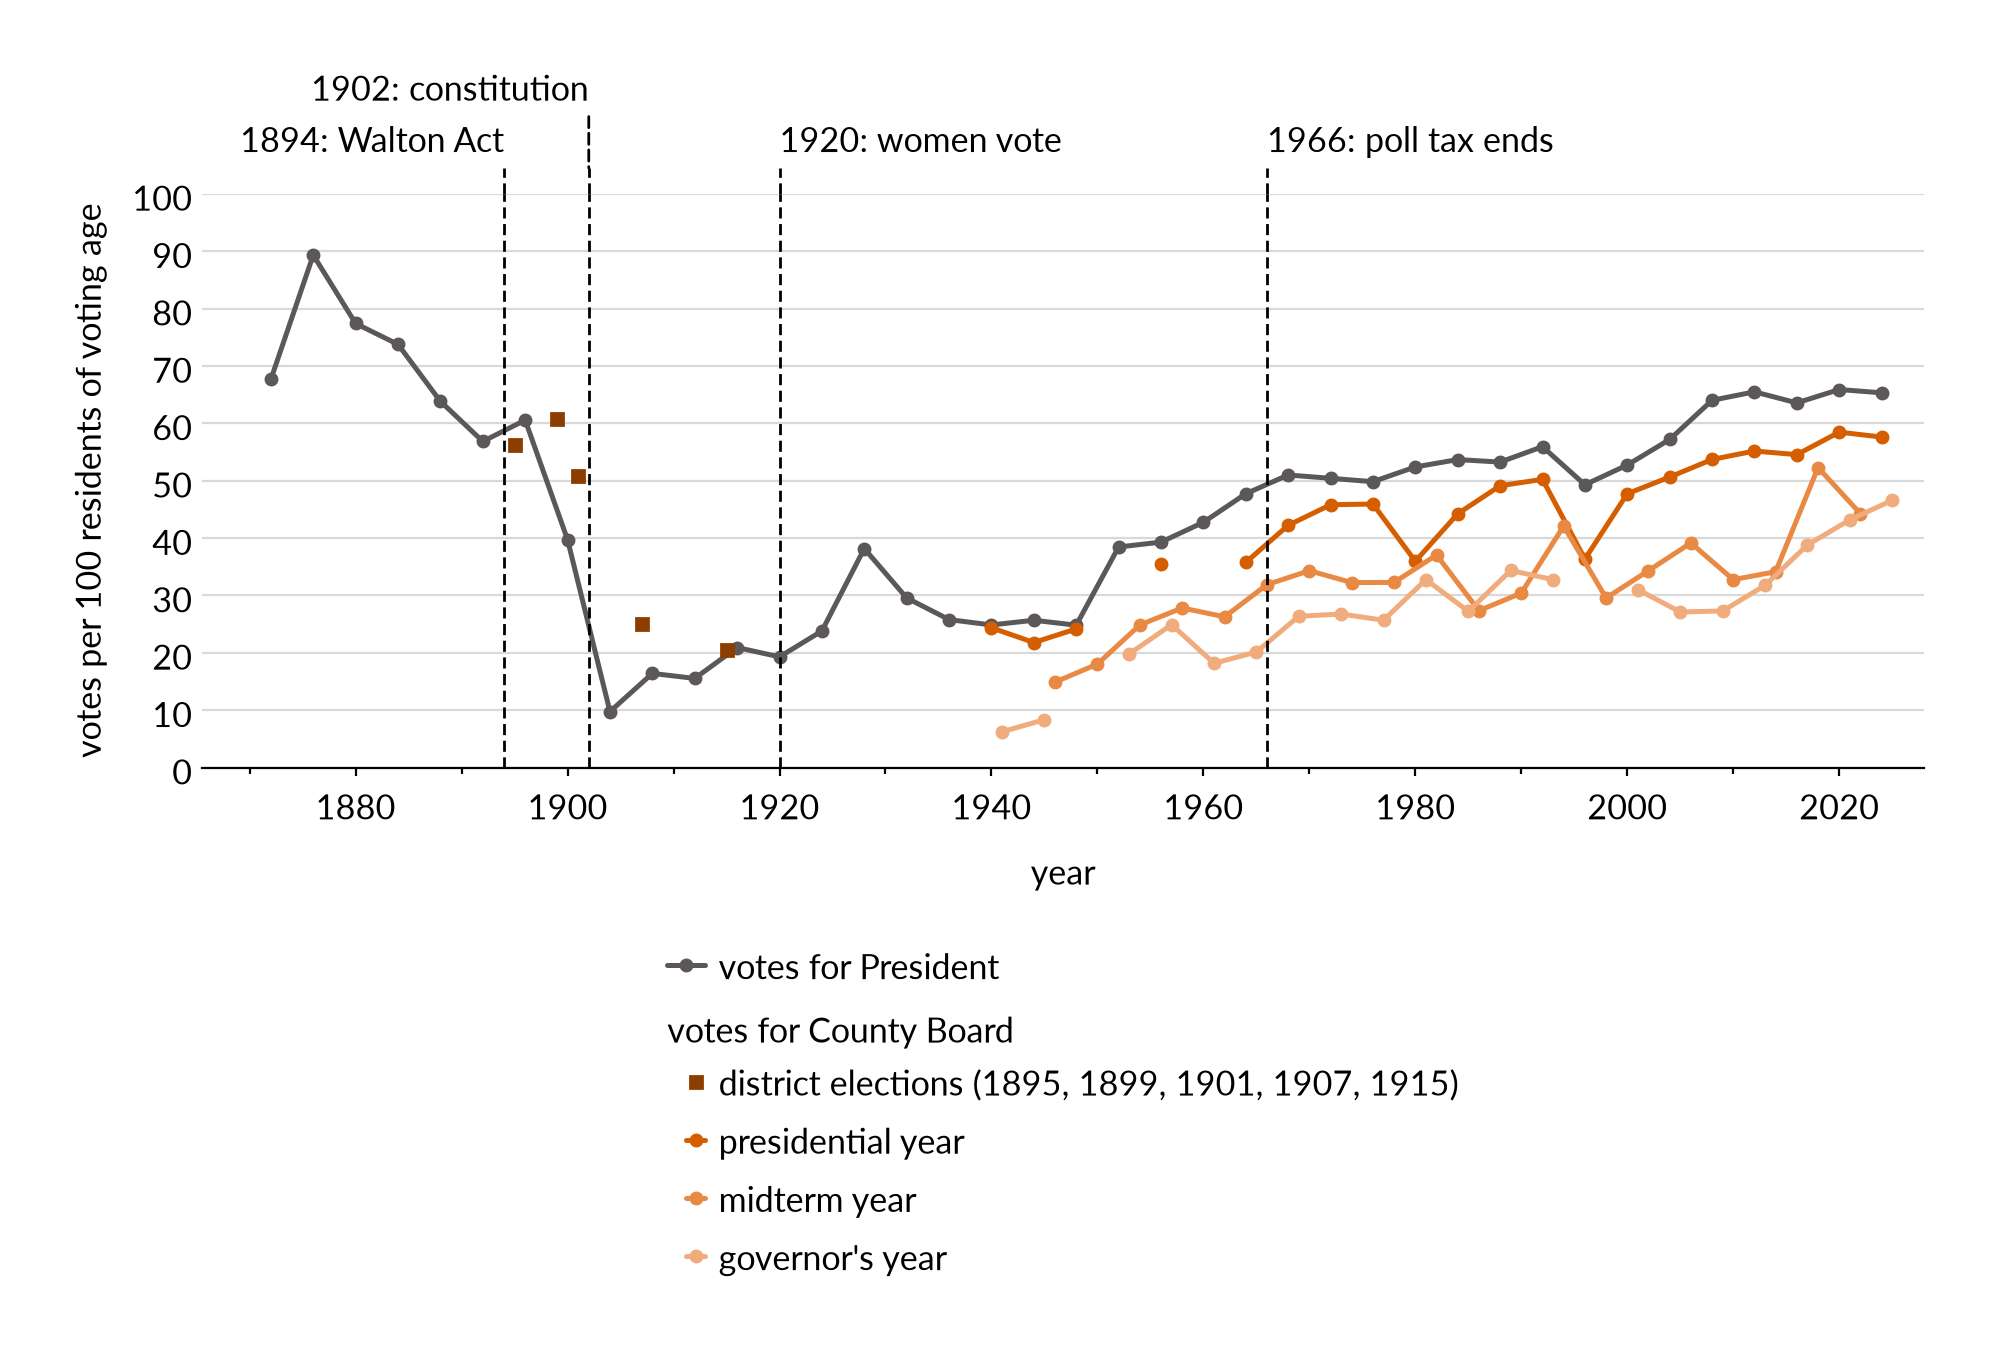
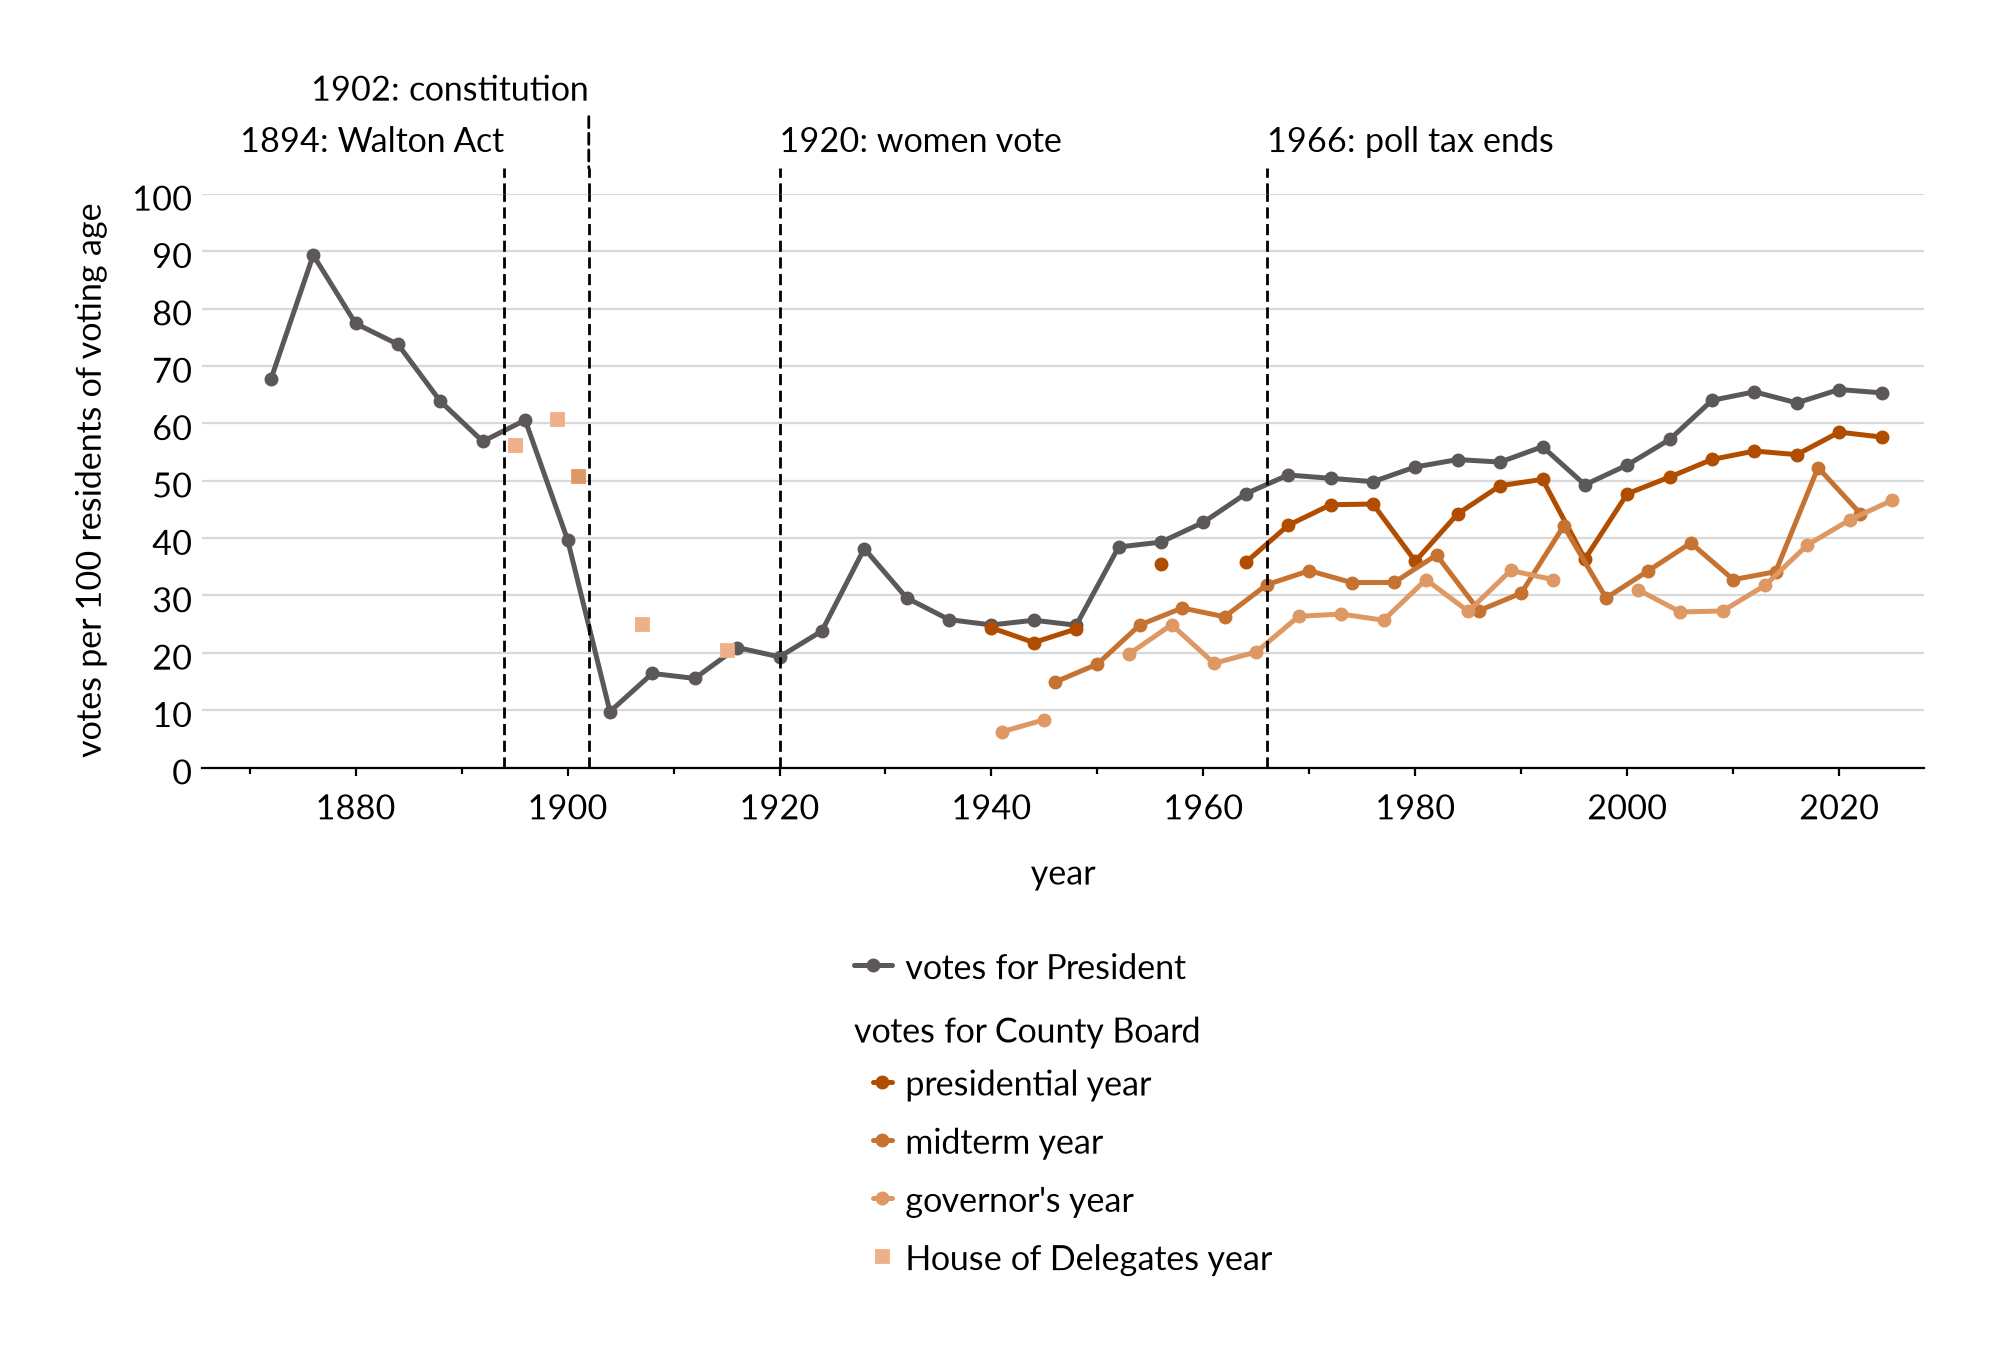
Turnout squares take their year's shade; House of Delegates years join the family; tracker row for the 1870s rate

diff --git a/code/analysis/elections_turnout.py b/code/analysis/elections_turnout.py
@@ -1,18 +1,20 @@
 """Votes cast per 100 residents of voting age, 1872 to the present -> figures/elections_turnout.pdf, .png
 
 One panel. The presidential vote is one grey line throughout. The Board's
-vote is one colour family: a square for each of the district-era elections
-in which every district's count survives, and from 1935 a line for each of
-the three things that led the ballot in a one-seat year (presidential,
-midterm, governor's year). A year that filled more than one seat, or that
-the build marks incomplete, is a gap: its votes are not its voters. The
-denominator is code/analysis/elections.py's, which body_text_numbers reads
-too, so the prose cites the rates this figure draws.
+vote is one colour family, shaded by what led the November ballot
+(presidential, midterm, governor's or House of Delegates year): a square for
+each district-era election in which every district's count survives, and from
+1935 a line for each cycle in a one-seat year. A year that filled more than
+one seat, or that the build marks incomplete, is a gap: its votes are not its
+voters, and that takes every House of Delegates year from 1943, so the
+delegates shade appears only among the squares. The denominator is
+code/analysis/elections.py's, which body_text_numbers reads too, so the prose
+cites the rates this figure draws.
 """
 import charts
 import paths
 import style
-from elections import per_100_voting_age
+from elections import cycle, per_100_voting_age
 
 FIRST_ONE_SEAT = 1935
 LAST_DISTRICT_ERA = 1928
@@ -42,22 +44,20 @@ for profile in style.PROFILES:
     fig, ax = charts.figure(profile)
     label, colour = style.PRESIDENT
     charts.lines(ax, president_rate.index.to_numpy(), {label: (president_rate.to_numpy(), colour)})
-    colour, marker = style.BOARD_FAMILY["districts"]
-    charts.marks(ax, district_rate.index, district_rate, colour, marker=marker)
-    for cycle in style.BOARD_CYCLES:
-        years_of = d[d.cycle == cycle].year[lambda y: y >= FIRST_ONE_SEAT].to_numpy()
+    for year, rate in district_rate.items():
+        charts.marks(ax, [year], [rate], style.BOARD_FAMILY[cycle(year)], marker="s")
+    for name in ("president", "midterm", "governor"):
+        years_of = d[d.cycle == name].year[lambda y: y >= FIRST_ONE_SEAT].to_numpy()
         rate = board_rate.reindex(years_of)       # a two-seat year is NaN: a gap
-        charts.lines(ax, years_of, {cycle: (rate.to_numpy(), style.BOARD_FAMILY[cycle][0])})
+        charts.lines(ax, years_of, {name: (rate.to_numpy(), style.BOARD_FAMILY[name])})
 
     charts.counts(ax, 100, 10, label="votes per 100 residents of voting age")
     charts.years(ax, 1870, 2020, step=20, label="year", minor=10, through=2028)
     for year, note, ha, tier in style.ELECTORATE_RULES:
         charts.rule(ax, year, note, ha=ha, tier=tier)
 
-    family = {f"district elections ({', '.join(str(y) for y in district_rate.index)})":
-              (*style.BOARD_FAMILY["districts"], False)}
-    family.update({name: (style.BOARD_FAMILY[cycle][0], "o", True)
-                   for cycle, name in style.BOARD_CYCLES.items()})
+    family = {name: (style.BOARD_FAMILY[key], "s" if key == "delegates" else "o", key != "delegates")
+              for key, name in style.BOARD_CYCLES.items()}
     charts.legend_family(fig, {style.PRESIDENT[0]: (style.PRESIDENT[1], "o")},
                          style.BOARD_VOTES, family)
     paths.save(fig, profile)

diff --git a/style/style.py b/style/style.py
@@ -176,18 +176,17 @@ def ink_on(color):
 
 PRESIDENT = ("votes for President", DARK)
 # The Board's vote is one colour family: the legend names it once and sets its
-# four entries under it, darkest first. The square marks the district-era
-# elections; the three shades are what led the ballot in a one-seat year, in
-# falling order of turnout. See docs/figures.md, Colour.
+# four entries under it, darkest first: what led the ballot, in falling order
+# of turnout. A square is a district-era election, a circle a one-seat year. See docs/figures.md, Colour.
 BOARD_VOTES = "votes for County Board"
 BOARD_FAMILY = {
-    "districts": ("#8C3D00", "s"),
-    "president": (OKABE_ITO["vermilion"], "o"),
-    "midterm":   ("#E88A44", "o"),
-    "governor":  ("#F0AC7C", "o"),
+    "president": "#B04D00",
+    "midterm":   "#C67332",
+    "governor":  "#DD9863",
+    "delegates": "#EDB088",
 }
 BOARD_CYCLES = {"president": "presidential year", "midterm": "midterm year",
-                "governor": "governor's year"}
+                "governor": "governor's year", "delegates": "House of Delegates year"}
 # The dated changes to who could vote that the turnout figure rules off:
 # (year, note, which side of the rule the note runs to, tier). Notes close
 # together stand at different heights, so no rule runs through another's note.

diff --git a/code/analysis/elections.py b/code/analysis/elections.py
@@ -49,6 +49,16 @@ def per_100_voting_age(votes, adults, estimate):
                       late / estimate.loc[late.index] * 100])
 
 
+CYCLE = {0: "president", 1: "governor", 2: "midterm", 3: "delegates"}
+
+
+def cycle(year):
+    """What led the November ballot: the four-year cycle that
+    code/clean/elections_turnout.py gives each row from 1931, worked out the
+    same way for the years before."""
+    return CYCLE[year % 4]
+
+
 def nearest(year):
     """The census closest to `year`, the earlier where two are as close."""
     return min(CENSUSES, key=lambda c: (abs(c - year), c))

diff --git a/docs/figures.md b/docs/figures.md
@@ -687,9 +687,12 @@ there the labels can be shortened and here the years cannot.
   (Sally, 6 October 2026): the first two are this figure's left third, and
   the third's one finding, that Jefferson fell steepest, is a sentence in
   the prose with its own built numbers. The family is
-  `style.BOARD_FAMILY`: vermilion darkened for the squares, vermilion for a
-  presidential year, then two lighter tints, the lightest tested on a
-  printed page. The legend is stacked, `charts.legend_family()`, the heading
+  `style.BOARD_FAMILY`: four tints of one hue, one per thing that led the
+  ballot, darkest for a presidential year and lightest for a House of
+  Delegates year, which only the district-era squares carry because a
+  two-seat year is a gap from 1943. A square is a district-era election and a
+  circle a one-seat year, so shape and shade answer two questions and the
+  legend swatch for delegates is a square. The legend is stacked, `charts.legend_family()`, the heading
   with no swatch and its four entries indented beneath, because five rows
   under one name read as one thing where five rows side by side would not.
   The rules' notes stand at two heights, `charts.rule(tier=)`, because the
